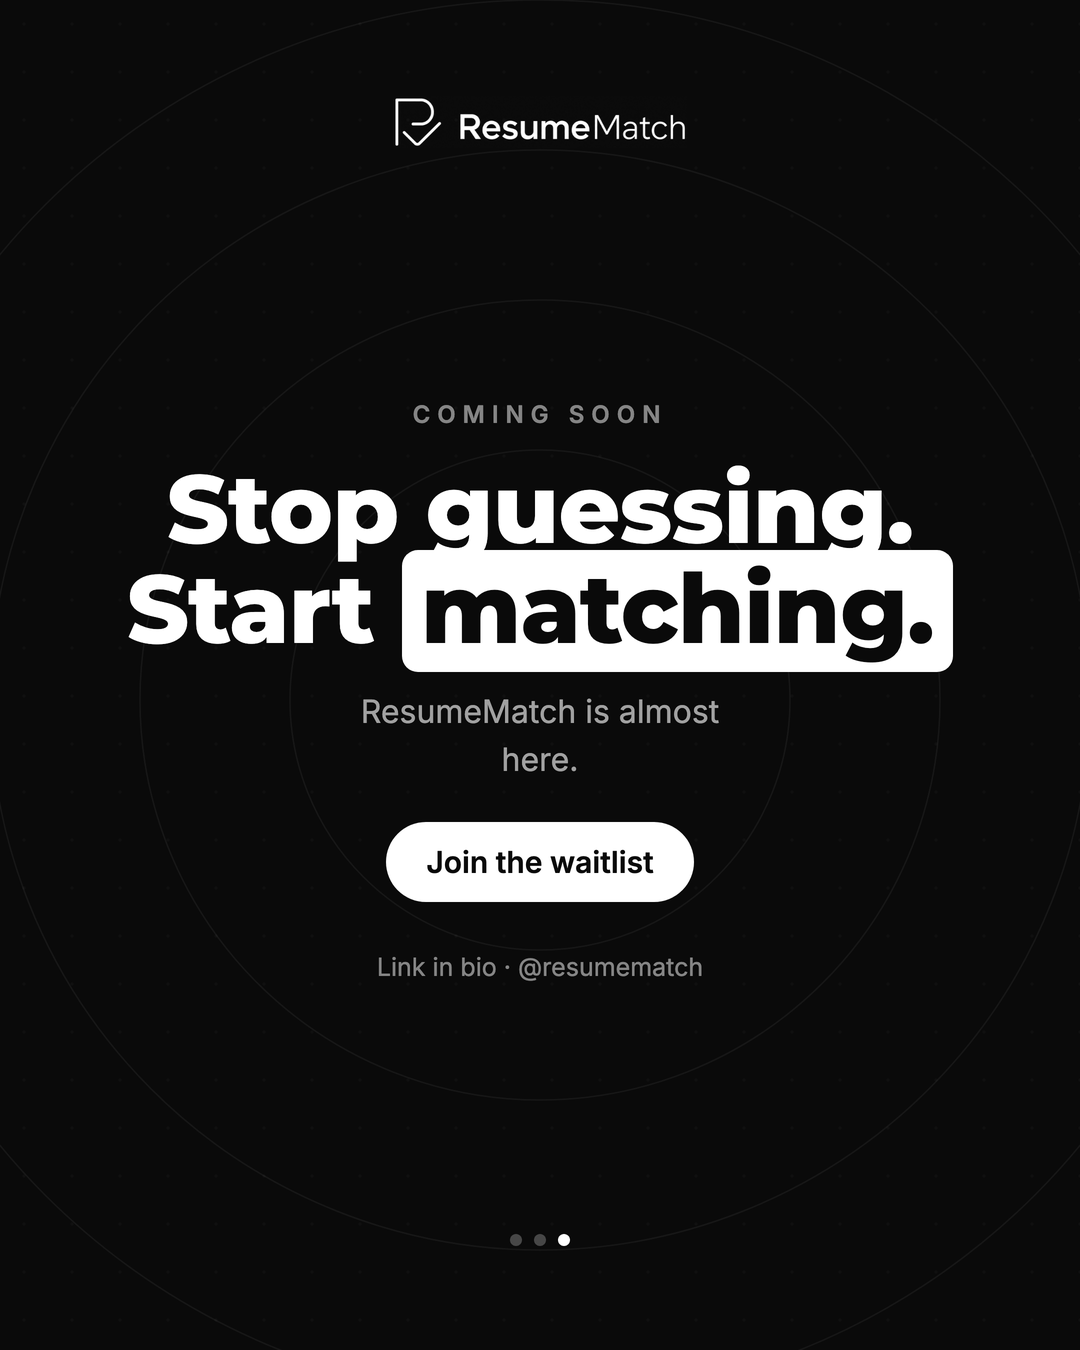
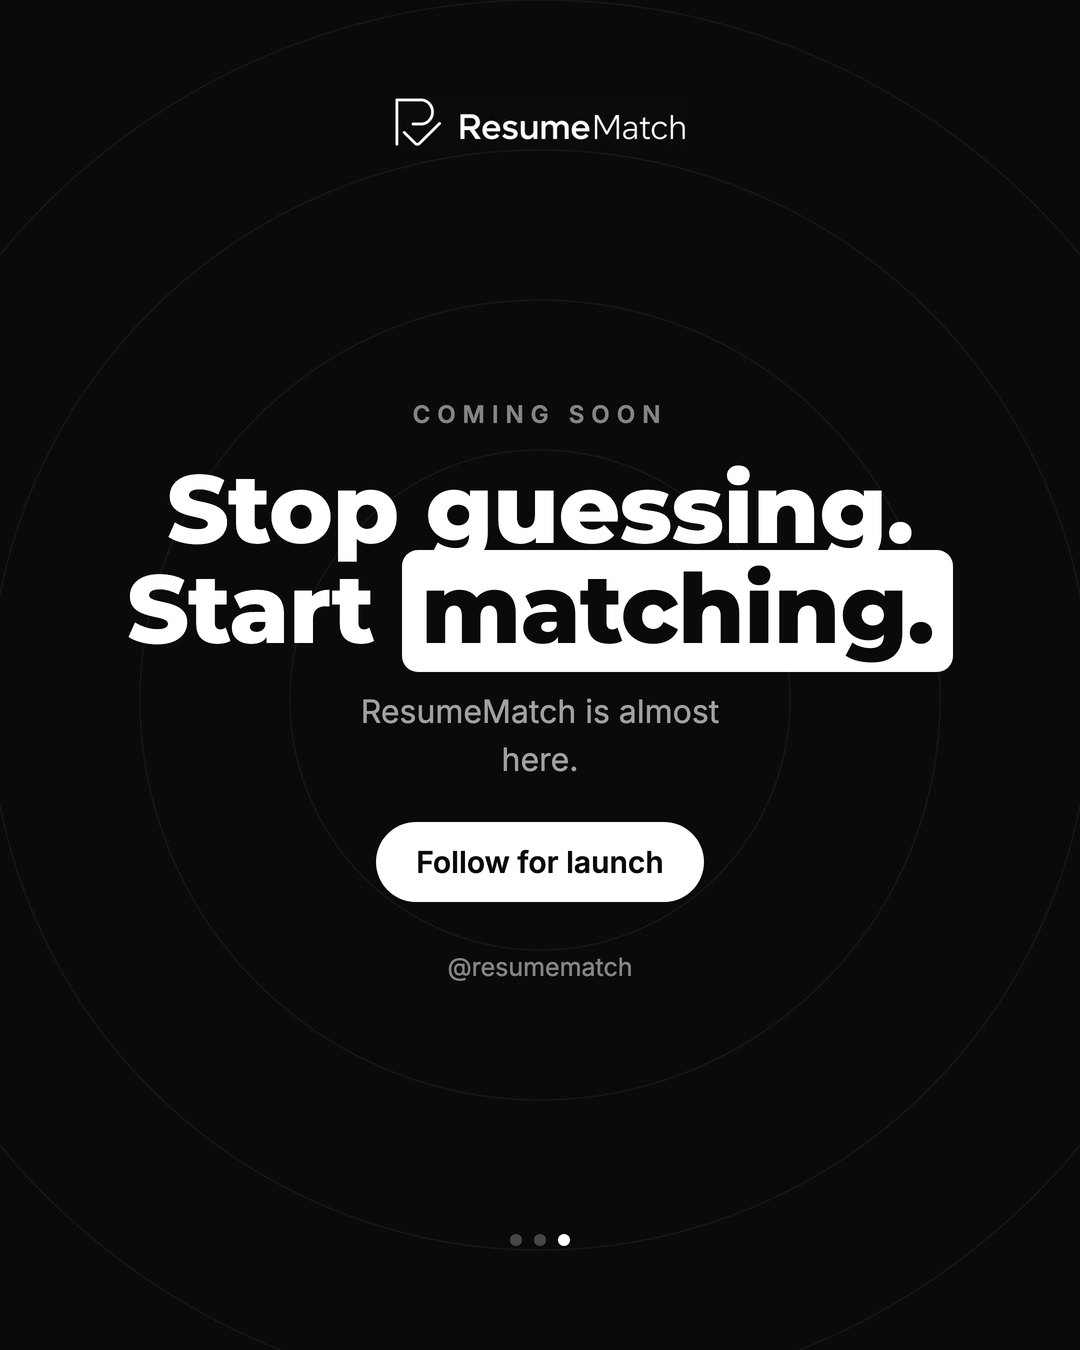
fix(ui): align pricing CTAs, declutter recommendations, honest carousel CTA
Polish pass guided by the frontend-design skill.

- Pricing: cards now share a height (dropped lg:items-start and the featured
  card's negative-margin lift) so all four CTAs sit on one baseline, with a
  fixed-height caption under each button. The free card gained a caption too
  ("No sign-up needed to try it.") so it lines up with the paid ones. The
  featured card still stands out by colour.
- Results: "Recommendations" was dumping every rewritten CV bullet, turning it
  into a wall of the user's own resume text. It now shows only the actionable
  quick wins; the CV rewrites remain the Tailored CV's job.
- Carousel: the "Join the waitlist" CTA promised something that doesn't exist
  yet — swapped for "Follow for launch", which we can actually deliver.

diff --git a/frontend/components/landing/Pricing.tsx b/frontend/components/landing/Pricing.tsx
@@ -83,7 +83,7 @@ function PackCard({ pack, index }: { pack: Pack; index: number }) {
       className={cn(
         "relative flex flex-col rounded-2xl border p-6 sm:p-7",
         dark
-          ? "border-foreground bg-foreground text-background shadow-2xl lg:-my-3 lg:py-10"
+          ? "border-foreground bg-foreground text-background shadow-2xl"
           : "border-border bg-background"
       )}
     >
@@ -138,13 +138,19 @@ function PackCard({ pack, index }: { pack: Pack; index: number }) {
         )}
       </Button>
 
-      {error && <p className="mt-2 text-center text-xs text-missing">{error}</p>}
-
-      {pack.id !== "free" && !error && (
-        <p className={cn("mt-2.5 text-center text-[11px]", dark ? "text-background/45" : "text-muted-foreground")}>
-          Demo: checkout is simulated — no card, no charge.
-        </p>
-      )}
+      {/* Fixed-height caption under every card's button so the buttons line up
+          across the row regardless of note length. */}
+      <div className="mt-2.5 min-h-[32px]">
+        {error ? (
+          <p className="text-center text-xs text-missing">{error}</p>
+        ) : (
+          <p className={cn("text-center text-[11px] leading-snug", dark ? "text-background/45" : "text-muted-foreground")}>
+            {pack.id === "free"
+              ? "No sign-up needed to try it."
+              : "Demo: checkout is simulated. No card, no charge."}
+          </p>
+        )}
+      </div>
     </motion.div>
   );
 }
@@ -163,7 +169,8 @@ export function Pricing() {
           </p>
         </div>
 
-        <div className="mt-12 sm:mt-14 grid gap-5 sm:grid-cols-2 lg:grid-cols-4 lg:items-start">
+        {/* stretch (default) so all cards share a height and their CTAs align */}
+        <div className="mt-12 sm:mt-14 grid gap-5 sm:grid-cols-2 lg:grid-cols-4">
           {PACKS.map((p, i) => (
             <PackCard key={p.id} pack={p} index={i} />
           ))}

diff --git a/frontend/components/results/AnalysisReport.tsx b/frontend/components/results/AnalysisReport.tsx
@@ -43,10 +43,10 @@ function ReportBody({ a }: { a: Analysis }) {
       .filter((r) => r.status !== "met")
       .map((r) => `${r.requirement} (${r.status.replace("-", " ")})`),
   ];
-  const recs = [
-    ...a.score.quick_wins,
-    ...a.rewrite.rewritten_bullets.filter((b) => b.changed).map((b) => b.rewritten),
-  ];
+  // Only actionable advice belongs here. The rewritten CV bullets are the
+  // Tailored CV's job — dumping them in "Recommendations" turned it into a wall
+  // of the user's own resume text.
+  const recs = a.score.quick_wins;
   return (
     <div className="mt-4 grid gap-4">
       <Card className="p-5">

diff --git a/backend/coming_soon.py b/backend/coming_soon.py
@@ -124,8 +124,10 @@ SLIDE_3 = _page(
     "Coming soon",
     '<span style="font-size:96px">Stop guessing.<br>Start <span class="hl">matching.</span></span>',
     "ResumeMatch is almost here.",
-    extra='<div class="cta">Join the waitlist</div>'
-    '<div class="bib">Link in bio · @resumematch</div>',
+    # No waitlist exists yet, so the CTA is a follow — something we can actually
+    # deliver on. Swap for "Try it free" pointing at the live site once launched.
+    extra='<div class="cta">Follow for launch</div>'
+    '<div class="bib">@resumematch</div>',
 )
 
 SLIDES = [SLIDE_1, SLIDE_2, SLIDE_3]
